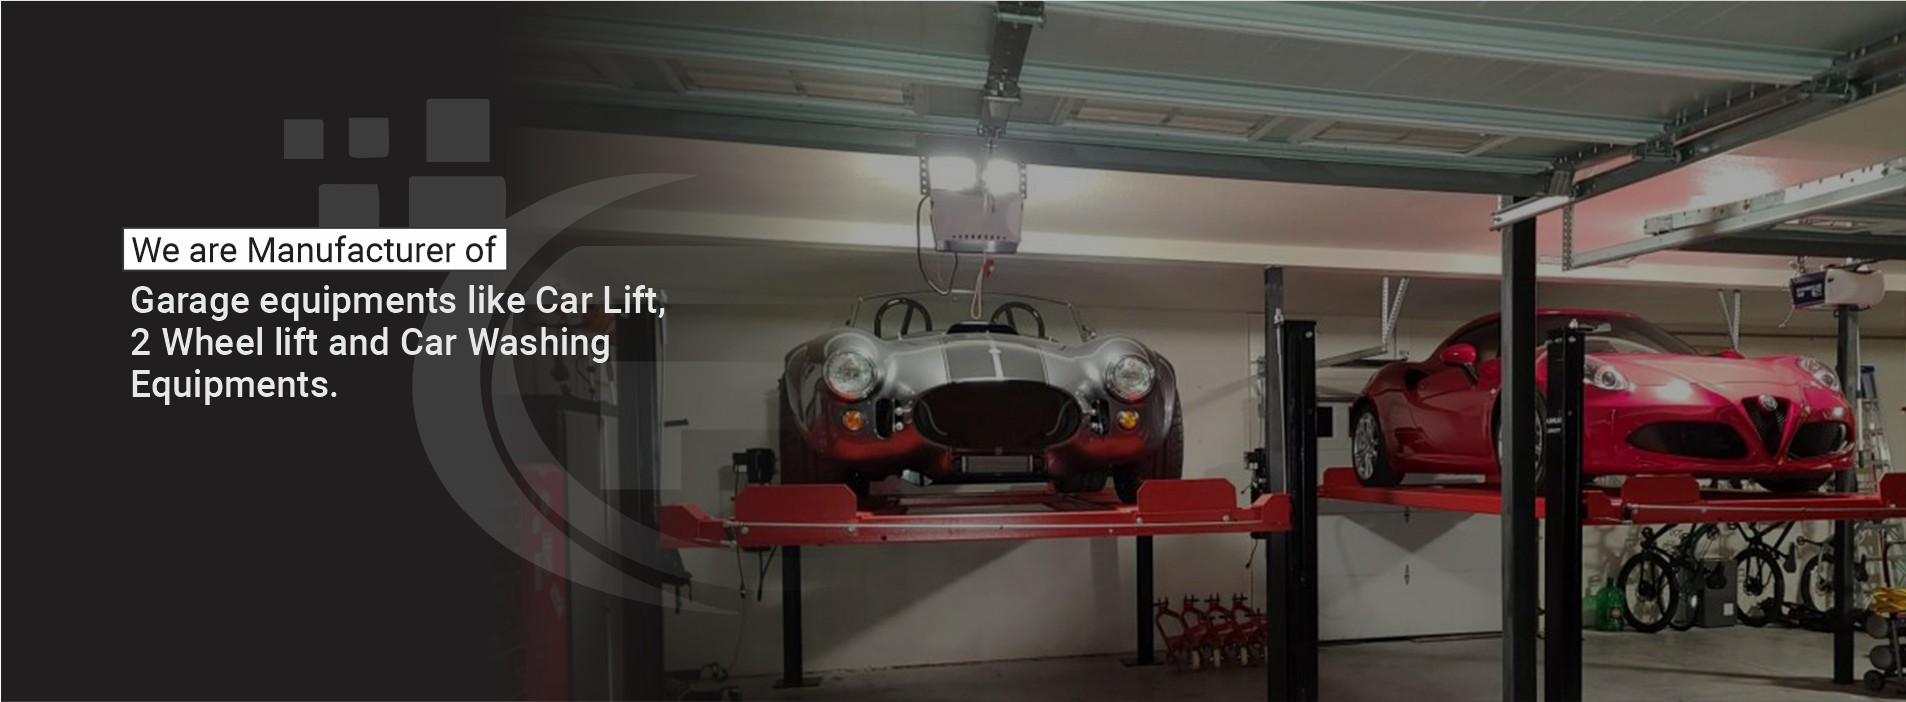
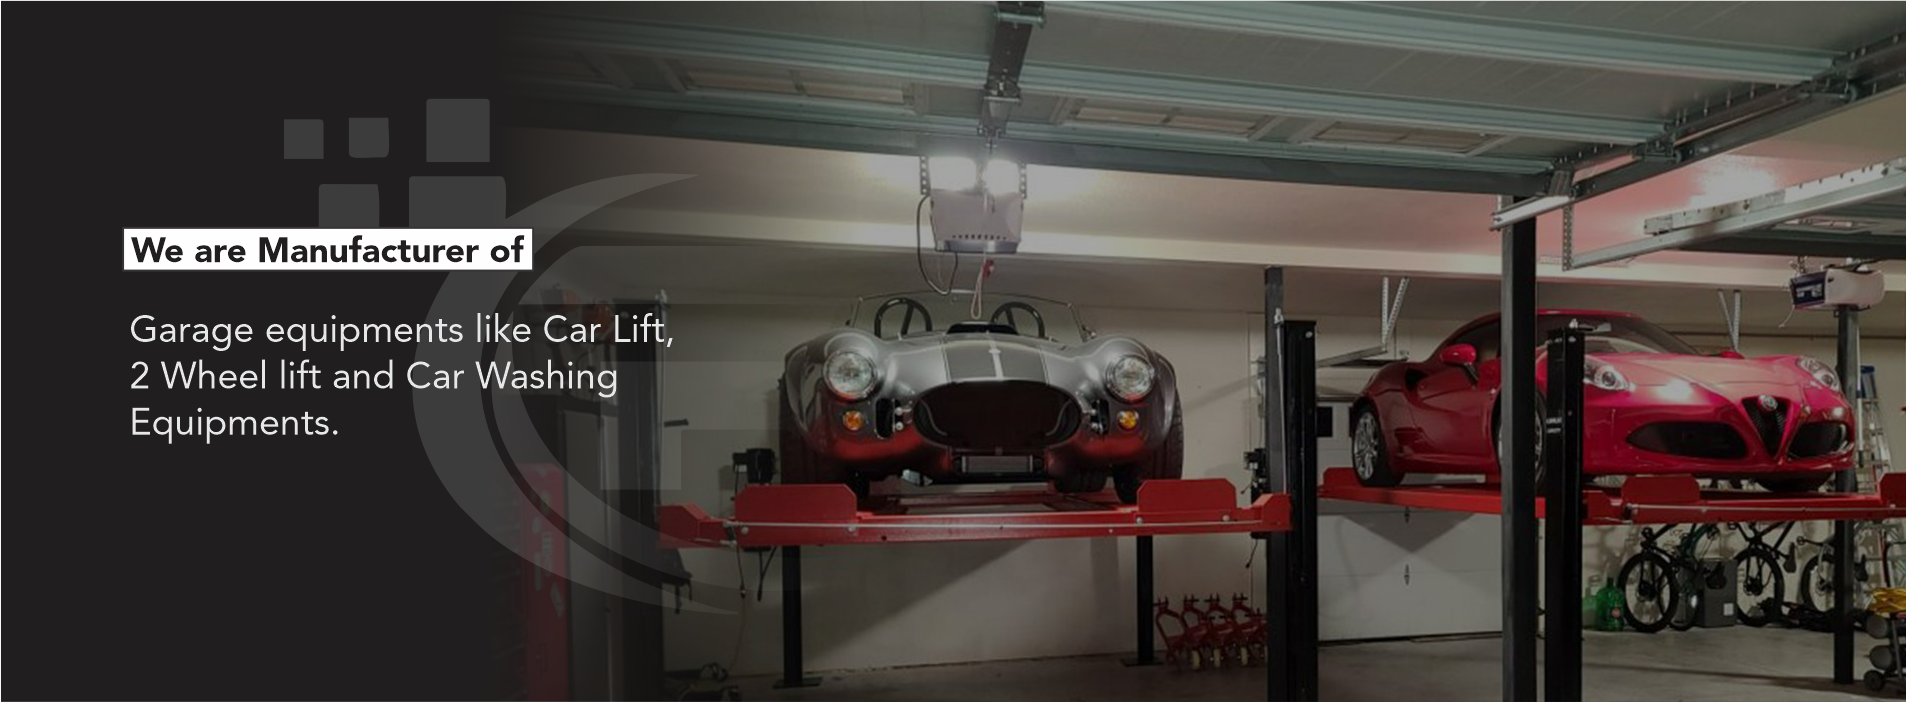
first commit

Changed region(s): [[0.0619, 0.3889, 0.3715, 0.6282], [0.0619, 0.3291, 0.2786, 0.3889]]

diff --git a/assets/css/style.css b/assets/css/style.css
@@ -9854,8 +9854,9 @@ blockquote.has-text-align-right,
 
 .breadcumb-wrapper {
     position: relative;
-    padding: 249px 0 120px 0;
-    z-index: 2
+    padding: 170px 0 120px 0;
+    z-index: 2;
+    margin-top: 100px;
 }
 
 .breadcumb-wrapper.th-breadcumb {
@@ -9890,7 +9891,7 @@ blockquote.has-text-align-right,
     inset: 0;
     width: 100%;
     height: 100%;
-    background-color: rgba(10, 10, 10, 0.8);
+    background-color: rgba(10, 10, 10, 0.5);
     z-index: -1
 }
 
@@ -9920,7 +9921,7 @@ blockquote.has-text-align-right,
 
 @media (max-width: 991px) {
     .breadcumb-wrapper {
-        padding: 255px 0 120px 0
+        padding: 120px 0 120px 0
     }
 
     .breadcumb-title {
@@ -9930,7 +9931,7 @@ blockquote.has-text-align-right,
 
 @media (max-width: 640px) {
     .breadcumb-wrapper {
-        padding: 200px 0 80px 0
+        padding: 120px 0 80px 0
     }
 
     .breadcump-shape {
@@ -9944,7 +9945,7 @@ blockquote.has-text-align-right,
 
 @media (max-width: 575px) {
     .breadcumb-wrapper {
-        padding: 200px 0 80px 0
+        padding: 50px 0 80px 0
     }
 
     .breadcumb-title {

diff --git a/about.html b/about.html
@@ -587,7 +587,7 @@
                     <ul class="footer-links">
                         <li><a href="index.html">Home</a></li>
                         <li><a href="about.html">About us</a></li>
-                        <li><a href="team.html">Our Products</a></li>
+                        <li><a href="air-compressor.html">Our Products</a></li>
 
                         <li><a href="gallery.html">Gallery</a></li>
 

diff --git a/air-compressor.html b/air-compressor.html
@@ -611,7 +611,7 @@
                     <ul class="footer-links">
                         <li><a href="index.html">Home</a></li>
                         <li><a href="about.html">About us</a></li>
-                        <li><a href="team.html">Our Products</a></li>
+                        <li><a href="air-compressor.html">Our Products</a></li>
 
                         <li><a href="gallery.html">Gallery</a></li>
 

diff --git a/car-vacuum-cleaner.html b/car-vacuum-cleaner.html
@@ -573,7 +573,7 @@
                     <ul class="footer-links">
                         <li><a href="index.html">Home</a></li>
                         <li><a href="about.html">About us</a></li>
-                        <li><a href="team.html">Our Products</a></li>
+                        <li><a href="air-compressor.html">Our Products</a></li>
 
                         <li><a href="gallery.html">Gallery</a></li>
 

diff --git a/car-washer-machine.html b/car-washer-machine.html
@@ -550,7 +550,7 @@
                     <ul class="footer-links">
                         <li><a href="index.html">Home</a></li>
                         <li><a href="about.html">About us</a></li>
-                        <li><a href="team.html">Our Products</a></li>
+                        <li><a href="air-compressor.html">Our Products</a></li>
 
                         <li><a href="gallery.html">Gallery</a></li>
 

diff --git a/car-washing-lift.html b/car-washing-lift.html
@@ -550,7 +550,7 @@
                     <ul class="footer-links">
                         <li><a href="index.html">Home</a></li>
                         <li><a href="about.html">About us</a></li>
-                        <li><a href="team.html">Our Products</a></li>
+                        <li><a href="air-compressor.html">Our Products</a></li>
 
                         <li><a href="gallery.html">Gallery</a></li>
 

diff --git a/contact.html b/contact.html
@@ -462,7 +462,7 @@
                     <ul class="footer-links">
                         <li><a href="index.html">Home</a></li>
                         <li><a href="about.html">About us</a></li>
-                        <li><a href="team.html">Our Products</a></li>
+                        <li><a href="air-compressor.html">Our Products</a></li>
 
                         <li><a href="gallery.html">Gallery</a></li>
 

diff --git a/gallery.html b/gallery.html
@@ -553,7 +553,7 @@
                     <ul class="footer-links">
                         <li><a href="index.html">Home</a></li>
                         <li><a href="about.html">About us</a></li>
-                        <li><a href="team.html">Our Products</a></li>
+                        <li><a href="air-compressor.html">Our Products</a></li>
 
                         <li><a href="gallery.html">Gallery</a></li>
 

diff --git a/high-pressure-washer.html b/high-pressure-washer.html
@@ -547,7 +547,7 @@
                     <ul class="footer-links">
                         <li><a href="index.html">Home</a></li>
                         <li><a href="about.html">About us</a></li>
-                        <li><a href="team.html">Our Products</a></li>
+                        <li><a href="air-compressor.html">Our Products</a></li>
 
                         <li><a href="gallery.html">Gallery</a></li>
 

diff --git a/index.html b/index.html
@@ -789,7 +789,7 @@
                     <ul class="footer-links">
                         <li><a href="index.html">Home</a></li>
                         <li><a href="about.html">About us</a></li>
-                        <li><a href="team.html">Our Products</a></li>
+                        <li><a href="air-compressor.html">Our Products</a></li>
 
                         <li><a href="gallery.html">Gallery</a></li>
 

diff --git a/motorcycle-lift.html b/motorcycle-lift.html
@@ -550,7 +550,7 @@
                     <ul class="footer-links">
                         <li><a href="index.html">Home</a></li>
                         <li><a href="about.html">About us</a></li>
-                        <li><a href="team.html">Our Products</a></li>
+                        <li><a href="air-compressor.html">Our Products</a></li>
 
                         <li><a href="gallery.html">Gallery</a></li>
 

diff --git a/motorcycle-ramp.html b/motorcycle-ramp.html
@@ -552,7 +552,7 @@
                     <ul class="footer-links">
                         <li><a href="index.html">Home</a></li>
                         <li><a href="about.html">About us</a></li>
-                        <li><a href="team.html">Our Products</a></li>
+                        <li><a href="air-compressor.html">Our Products</a></li>
 
                         <li><a href="gallery.html">Gallery</a></li>
 
